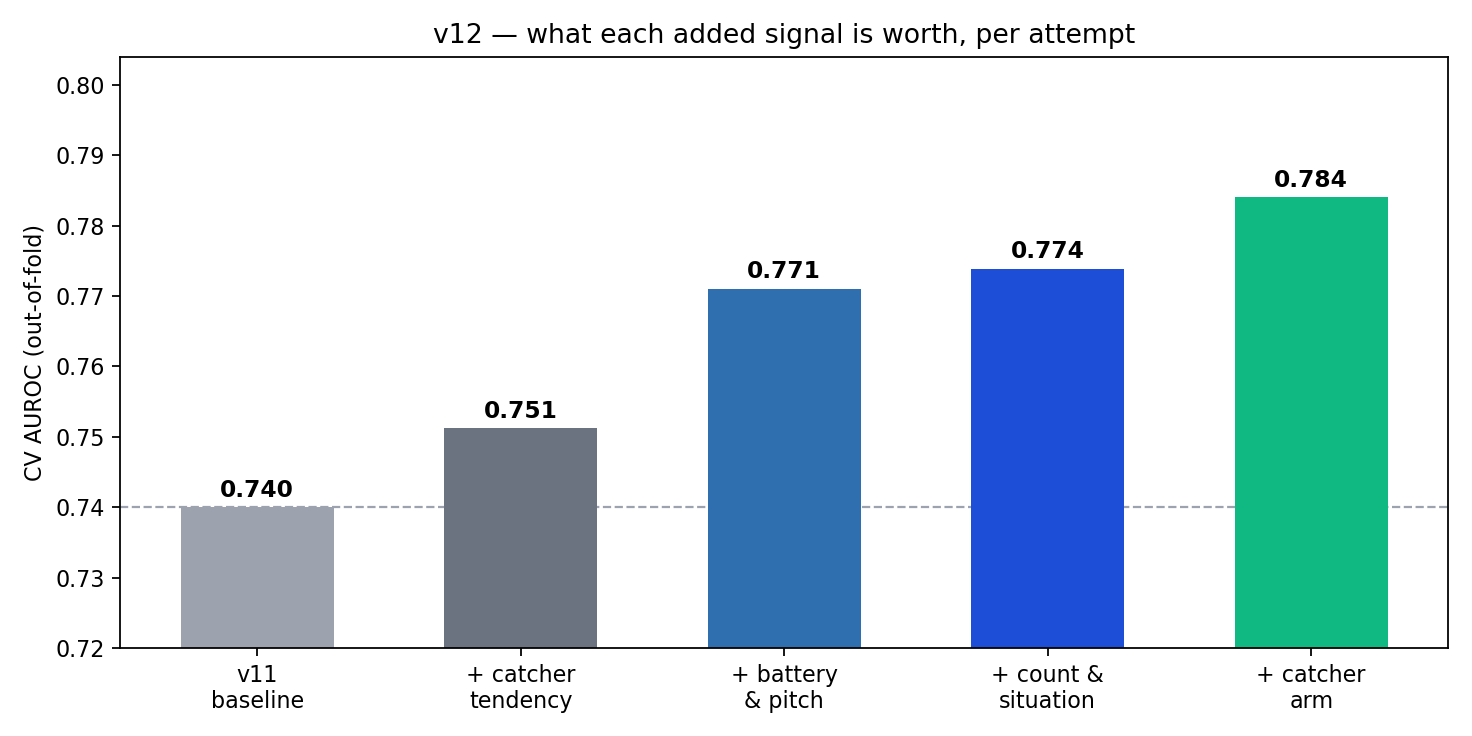
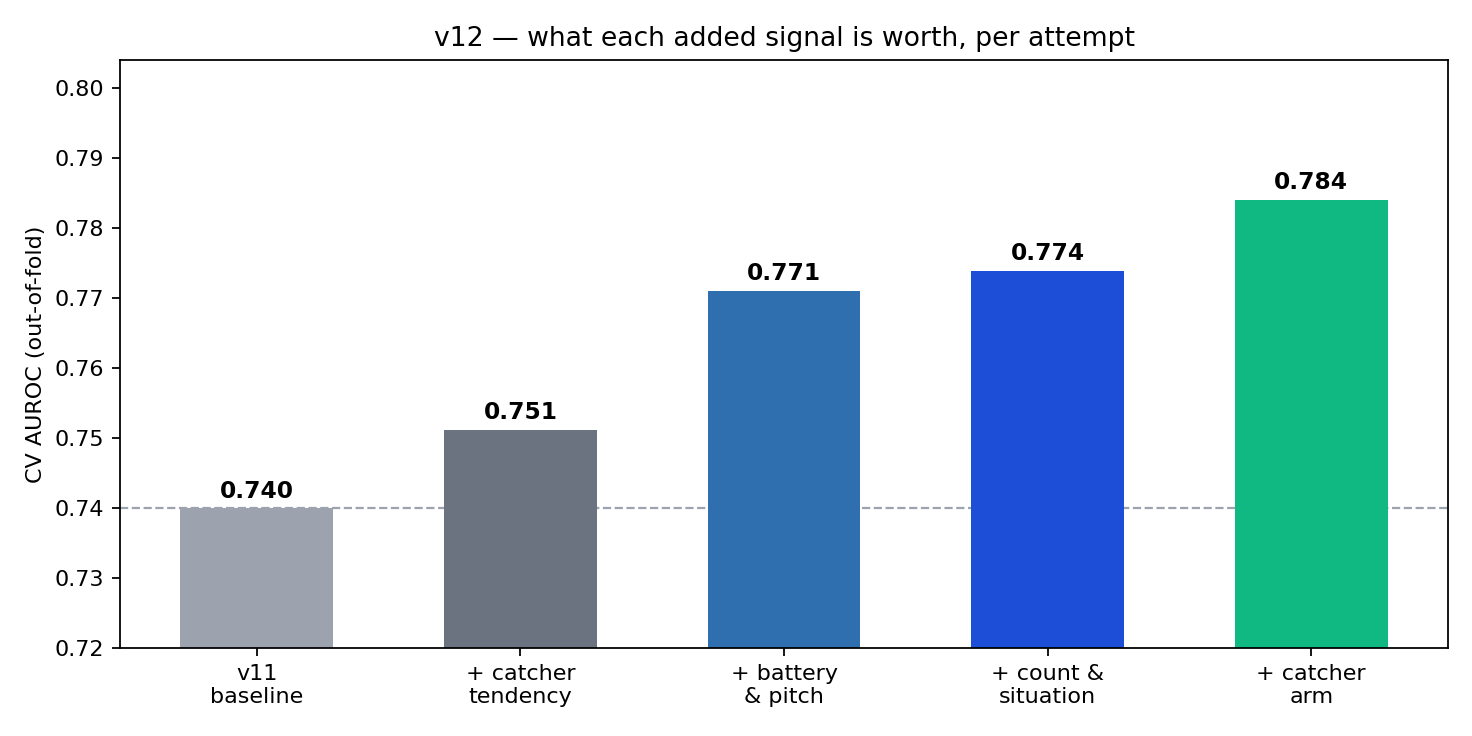
Make decompose.py observable and correct its usage paths
decompose.py works — moving it into model/ fixed the ROOT resolution that had it
looking for Data/ one directory above the repo. A full run now completes with
every assertion passing: the refit lands on the committed calculator to 6dp,
the hand-rolled logit matches sklearn to 1.7e-15, and the season decomposition
closes to 3.6e-15.

What was actually wrong was that you could not tell it was running. The full
audit takes ~4 minutes (1000 bootstraps + 200 label permutations) and prints
nothing until report() runs at the very end; with stdout redirected to a file
Python block-buffers it, so the file stays empty and the run is
indistinguishable from a hang.

Progress now goes to stderr, flushed, so it stays visible through a redirect and
names the stage it is in. The four resampling stages are hoisted out of the
return dict into named locals purely so each can be announced before it starts —
same calls, same order, same seeds. Verified the analysis output is byte-identical
to the pre-change run.

Docstring corrected too: it said `python3 Scripts/decompose.py` (that directory
no longer exists) and claimed ~1 min for a run that takes ~4; --quick is ~20 s.

diff --git a/model/decompose.py b/model/decompose.py
@@ -23,10 +23,13 @@ Every function returns named objects rather than only a final number; no calcula
 inside a pipeline that could be reconstructed outside one. Row identity is the modeling-frame
 index `attempt_ix`, carried onto every diagnostic frame.
 
-    python3 Scripts/decompose.py            full audit (~1 min)
-    python3 Scripts/decompose.py --quick    same audit, fewer resamples
+    python3 model/decompose.py            full audit (~4 min: 1000 bootstraps + 200 permutations)
+    python3 model/decompose.py --quick    same audit, fewer resamples (~20 s)
 
-    import decompose as D; a = D.run()      a["decomposition"], a["coefficients"], ...
+    import decompose as D; a = D.run()    a["decomposition"], a["coefficients"], ...
+
+Progress goes to STDERR so it stays visible when stdout is redirected to a file. Without it the
+full run prints nothing for four minutes and is indistinguishable from a hang.
 """
 from __future__ import annotations
 import argparse
@@ -65,6 +68,19 @@ CURVE_SEED = 13
 
 REFERENCE = {"intercept": -23.01083, "sprint_speed": 0.31684, "lead_at_firstmove_ft": 0.06874,
              "gain_to_release_ft": 0.30281, "pop_faced": 5.85786, "auc": 0.7559, "n": 10844}
+
+_T0 = None
+
+
+def _stage(msg: str) -> None:
+    """Progress line on STDERR, flushed. The resampling stages below run for minutes with no
+    output of their own; when stdout is redirected to a file Python block-buffers it, so without
+    this the whole audit is silent until it finishes and looks like it hung."""
+    import sys as _sys, time as _time
+    global _T0
+    if _T0 is None:
+        _T0 = _time.time()
+    print(f"[decompose {_time.time() - _T0:6.1f}s] {msg}", file=_sys.stderr, flush=True)
 
 
 # ── data ─────────────────────────────────────────────────────────────────────
@@ -526,15 +542,18 @@ def decompose_season() -> dict:
 
 # ── orchestration ────────────────────────────────────────────────────────────
 def run(n_boot: int = 1000, n_perm: int = 200, n_repeats: int = 10) -> dict:
+    _stage("loading Raw_Attempts + sprint speed + pop time")
     data = load_data()
     model = data["model"]
 
+    _stage(f"n = {len(model)} attempts; checks, VIF, fit, 5-fold OOF")
     checks  = validate_data(data["merged"], model)
     vif     = collinearity(model)
     fit     = fit_model(model)
     metrics = evaluate_model(model)
     dec     = decompose_prediction(model, fit)
 
+    _stage("asserting the decomposition identities against sklearn")
     verification = verify_predictions(dec, fit)
     reference    = verify_reference(fit, metrics)
 
@@ -543,15 +562,29 @@ def run(n_boot: int = 1000, n_perm: int = 200, n_repeats: int = 10) -> dict:
 
     cal = calibration(model["y"].to_numpy(int), metrics["oof"].to_numpy())
 
+    # the four resampling stages below are the slow ones — named here rather than inlined in the
+    # return dict purely so each can be announced before it starts
+    _stage(f"bootstrap: {n_boot} resamples")
+    boot = bootstrap_validation(model, n_boot=n_boot)
+    _stage(f"repeated CV: {n_repeats} partitions")
+    rcv = repeated_cv(model, n_repeats=n_repeats)
+    _stage(f"permutation null: {n_perm} label shuffles")
+    perm = permutation_test(model, n_perm=n_perm, observed=metrics["auc"])
+    _stage("learning curve")
+    curve = learning_curve(model)
+    _stage("season decomposition (Net Bases = NetSpeed + Steal+)")
+    season = decompose_season()
+    _stage("done")
+
     return {"data": data, "checks": checks, "collinearity": vif, "fit": fit,
             "coefficients": fit["coefficients"], "metrics": metrics,
             "decomposition": dec, "verification": verification, "reference": reference,
             "calibration": cal, "calibration_error": calibration_error(cal),
-            "bootstrap": bootstrap_validation(model, n_boot=n_boot),
-            "repeated_cv": repeated_cv(model, n_repeats=n_repeats),
-            "permutation": permutation_test(model, n_perm=n_perm, observed=metrics["auc"]),
-            "learning_curve": learning_curve(model),
-            "season": decompose_season()}
+            "bootstrap": boot,
+            "repeated_cv": rcv,
+            "permutation": perm,
+            "learning_curve": curve,
+            "season": season}
 
 
 def sample_rows(dec: pd.DataFrame, n: int = 8, seed: int = SEED) -> pd.DataFrame:
